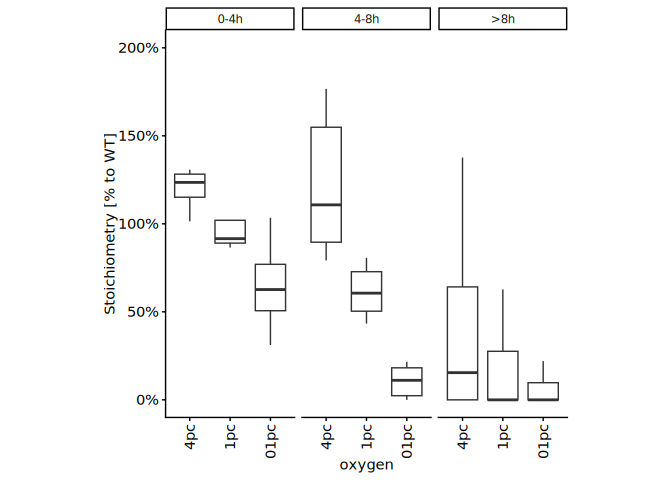
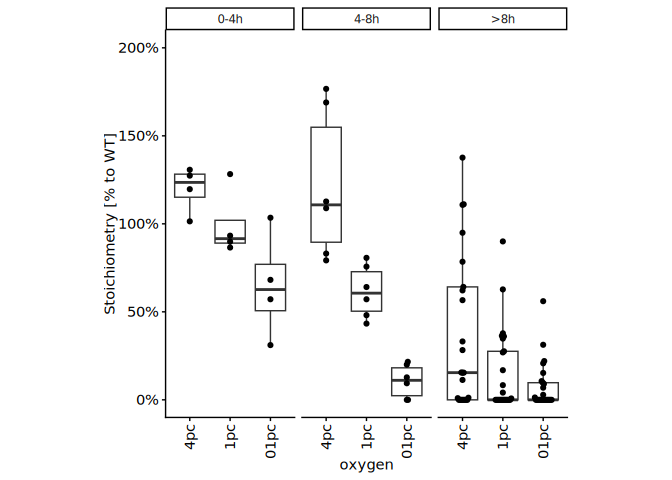
n for key comparisons added

diff --git a/R/p2_lysine-rich-domain-LCMS/p2-3-diagnostic-ions-lysine-hydorxylation-stoic.md b/R/p2_lysine-rich-domain-LCMS/p2-3-diagnostic-ions-lysine-hydorxylation-stoic.md
@@ -1,16 +1,19 @@
 2-3. Identify diagnostic ions that can mark lysine hydroxylations
 ================
 Yoichiro Sugimoto and Pallavi Kesavan
-07 January, 2026
+03 April, 2026
 
+- [Overview](#overview)
 - [Environment setup](#environment-setup)
 - [2.3.1 Import basic data](#231-import-basic-data)
 - [2.3.2 Identify useful diagnostic ions to identify lysine
   hydroxylations](#232-identify-useful-diagnostic-ions-to-identify-lysine-hydroxylations)
 - [Session information](#session-information)
 
-This script identify diagnostic ions to identify confident hydroxylation
-sites.
+# Overview
+
+This script identify diagnostic ions that can aid to determine
+hydroxylation sites.
 
 # Environment setup
 
@@ -377,6 +380,17 @@ ggplot(
 ![](p2-3-diagnostic-ions-lysine-hydorxylation-stoic_files/figure-gfm/plot_with_only_diagnostic_ions-1.png)<!-- -->
 
 ``` r
+m.brd4_hydroxylation_site_di[monoisotopic_mass %in% c(selected.ms)][, .N, by = list(monoisotopic_mass, genotype)]
+```
+
+    ##    monoisotopic_mass genotype     N
+    ##               <fctr>   <fctr> <int>
+    ## 1:          100.0762       WT   752
+    ## 2:          100.0762  JMJD6KO   586
+    ## 3:          156.1025       WT   752
+    ## 4:          156.1025  JMJD6KO   586
+
+``` r
 # Plot - Bar chart of proportion of PSMs with diagnostic ion 
 ggplot(
   data = m.brd4_hydroxylation_site_di[monoisotopic_mass %in% c(selected.ms)],
@@ -411,7 +425,7 @@ sessioninfo::session_info()
     ##  collate  C.UTF-8
     ##  ctype    C.UTF-8
     ##  tz       Europe/Berlin
-    ##  date     2026-01-07
+    ##  date     2026-04-03
     ##  pandoc   3.2 @ /usr/lib/rstudio-server/bin/quarto/bin/tools/x86_64/ (via rmarkdown)
     ##  quarto   1.5.57 @ /usr/lib/rstudio-server/bin/quarto/bin/quarto
     ## 
@@ -426,14 +440,14 @@ sessioninfo::session_info()
     ##  data.table        * 1.17.8     2025-07-10 [1] CRAN (R 4.4.3)
     ##  digest              0.6.37     2024-08-19 [1] CRAN (R 4.4.3)
     ##  dplyr             * 1.1.4      2023-11-17 [1] CRAN (R 4.4.3)
-    ##  evaluate            1.0.4      2025-06-18 [1] CRAN (R 4.4.3)
+    ##  evaluate            1.0.5      2025-08-27 [1] CRAN (R 4.4.3)
     ##  farver              2.1.2      2024-05-13 [1] CRAN (R 4.4.3)
     ##  fastmap             1.2.0      2024-05-15 [1] CRAN (R 4.4.3)
     ##  generics            0.1.4      2025-05-09 [1] CRAN (R 4.4.3)
     ##  GenomeInfoDb      * 1.42.3     2025-01-27 [1] Bioconduc~
     ##  GenomeInfoDbData    1.2.13     2025-07-21 [1] Bioconductor
     ##  ggbeeswarm        * 0.7.2      2023-04-29 [1] CRAN (R 4.4.3)
-    ##  ggplot2           * 3.5.2      2025-04-09 [1] CRAN (R 4.4.3)
+    ##  ggplot2           * 4.0.0      2025-09-11 [1] CRAN (R 4.4.3)
     ##  glue                1.8.0      2024-09-30 [1] CRAN (R 4.4.3)
     ##  gtable              0.3.6      2024-10-25 [1] CRAN (R 4.4.3)
     ##  htmltools           0.5.8.1    2024-04-04 [1] CRAN (R 4.4.3)
@@ -446,8 +460,8 @@ sessioninfo::session_info()
     ##  labeling            0.4.3      2023-08-29 [1] CRAN (R 4.4.3)
     ##  lifecycle           1.0.4      2023-11-07 [1] CRAN (R 4.4.3)
     ##  lubridate           1.9.4      2024-12-08 [1] CRAN (R 4.4.3)
-    ##  magrittr          * 2.0.3      2022-03-30 [1] CRAN (R 4.4.3)
-    ##  pillar              1.11.0     2025-07-04 [1] CRAN (R 4.4.3)
+    ##  magrittr          * 2.0.4      2025-09-12 [1] CRAN (R 4.4.3)
+    ##  pillar              1.11.1     2025-09-17 [1] CRAN (R 4.4.3)
     ##  pkgconfig           2.0.3      2019-09-22 [1] CRAN (R 4.4.3)
     ##  ptm.stoichiometry * 0.0.0.9000 2025-12-13 [1] local
     ##  R6                  2.6.1      2025-02-15 [1] CRAN (R 4.4.3)
@@ -457,11 +471,12 @@ sessioninfo::session_info()
     ##  rmarkdown           2.29       2024-11-04 [1] CRAN (R 4.4.3)
     ##  rstudioapi          0.17.1     2024-10-22 [1] CRAN (R 4.4.3)
     ##  S4Vectors         * 0.44.0     2024-10-29 [1] Bioconduc~
+    ##  S7                  0.2.0      2024-11-07 [1] CRAN (R 4.4.3)
     ##  scales              1.4.0      2025-04-24 [1] CRAN (R 4.4.3)
     ##  sessioninfo         1.2.3      2025-02-05 [1] CRAN (R 4.4.3)
     ##  snakecase           0.11.1     2023-08-27 [1] CRAN (R 4.4.3)
     ##  stringi             1.8.7      2025-03-27 [1] CRAN (R 4.4.3)
-    ##  stringr           * 1.5.1      2023-11-14 [1] CRAN (R 4.4.3)
+    ##  stringr           * 1.5.2      2025-09-08 [1] CRAN (R 4.4.3)
     ##  tibble              3.3.0      2025-06-08 [1] CRAN (R 4.4.3)
     ##  tidyselect          1.2.1      2024-03-11 [1] CRAN (R 4.4.3)
     ##  timechange          0.3.0      2024-01-18 [1] CRAN (R 4.4.3)
@@ -469,7 +484,7 @@ sessioninfo::session_info()
     ##  vctrs               0.6.5      2023-12-01 [1] CRAN (R 4.4.3)
     ##  vipor               0.4.7      2023-12-18 [1] CRAN (R 4.4.3)
     ##  withr               3.0.2      2024-10-28 [1] CRAN (R 4.4.3)
-    ##  xfun                0.52       2025-04-02 [1] CRAN (R 4.4.3)
+    ##  xfun                0.53       2025-08-19 [1] CRAN (R 4.4.3)
     ##  XVector           * 0.46.0     2024-10-29 [1] Bioconduc~
     ##  yaml                2.3.10     2024-07-26 [1] CRAN (R 4.4.3)
     ##  zlibbioc            1.52.0     2024-10-29 [1] Bioconduc~

diff --git a/R/p2_lysine-rich-domain-LCMS/p2-8_MS_SS_KR_plots_v3-2.md b/R/p2_lysine-rich-domain-LCMS/p2-8_MS_SS_KR_plots_v3-2.md
@@ -2,7 +2,7 @@
 data visualisation
 ================
 Yoichiro Sugimoto and Pallavi Kesavan
-02 April, 2026
+03 April, 2026
 
 - [Overview](#overview)
 - [Environment setup](#environment-setup)
@@ -1454,6 +1454,8 @@ pc2wt_on_kinetics <- merge(
   by = c("gene_name", "aa_pos")
 )
 
+library("ggbeeswarm")
+
 ggplot(
   pc2wt_on_kinetics[n == 7][oxygen != "21pc"],
   aes(
@@ -1483,6 +1485,7 @@ ggplot(
   )
 ) +
   geom_boxplot(outlier.shape = NA) +
+  geom_beeswarm() +
   facet_grid(~ t50_bin) +
   theme(
     aspect.ratio = 3,
@@ -1520,15 +1523,23 @@ ggplot(
 ![](p2-8_MS_SS_KR_plots_v3-2_files/figure-gfm/hypoxic_sensitivity-4.png)<!-- -->
 
 ``` r
-pc2wt_on_kinetics[n == 7][, .N, by = list(oxygen)]
+pc2wt_on_kinetics[n == 7][, .N, by = list(oxygen, t50_bin)]
 ```
 
-    ##    oxygen     N
-    ##    <fctr> <int>
-    ## 1:    1pc    35
-    ## 2:    4pc    35
-    ## 3:   01pc    35
-    ## 4:   21pc    35
+    ##     oxygen t50_bin     N
+    ##     <fctr>  <fctr> <int>
+    ##  1:    1pc     >8h    25
+    ##  2:    4pc     >8h    25
+    ##  3:   01pc     >8h    25
+    ##  4:   21pc     >8h    25
+    ##  5:    1pc    4-8h     6
+    ##  6:    4pc    4-8h     6
+    ##  7:   01pc    4-8h     6
+    ##  8:   21pc    4-8h     6
+    ##  9:    1pc    0-4h     4
+    ## 10:    4pc    0-4h     4
+    ## 11:   01pc    0-4h     4
+    ## 12:   21pc    0-4h     4
 
 # Session information
 
@@ -1546,12 +1557,13 @@ sessioninfo::session_info()
     ##  collate  C.UTF-8
     ##  ctype    C.UTF-8
     ##  tz       Europe/Berlin
-    ##  date     2026-04-02
+    ##  date     2026-04-03
     ##  pandoc   3.2 @ /usr/lib/rstudio-server/bin/quarto/bin/tools/x86_64/ (via rmarkdown)
     ##  quarto   1.5.57 @ /usr/lib/rstudio-server/bin/quarto/bin/quarto
     ## 
     ## ─ Packages ───────────────────────────────────────────────────────────────────
     ##  package           * version    date (UTC) lib source
+    ##  beeswarm            0.4.0      2021-06-01 [1] CRAN (R 4.4.3)
     ##  BiocGenerics      * 0.52.0     2024-10-29 [1] Bioconduc~
     ##  Biostrings        * 2.74.1     2024-12-16 [1] Bioconduc~
     ##  cellranger          1.1.0      2016-07-27 [1] CRAN (R 4.4.3)
@@ -1566,6 +1578,7 @@ sessioninfo::session_info()
     ##  generics            0.1.4      2025-05-09 [1] CRAN (R 4.4.3)
     ##  GenomeInfoDb      * 1.42.3     2025-01-27 [1] Bioconduc~
     ##  GenomeInfoDbData    1.2.13     2025-07-21 [1] Bioconductor
+    ##  ggbeeswarm        * 0.7.2      2023-04-29 [1] CRAN (R 4.4.3)
     ##  ggplot2           * 4.0.0      2025-09-11 [1] CRAN (R 4.4.3)
     ##  glue                1.8.0      2024-09-30 [1] CRAN (R 4.4.3)
     ##  gtable              0.3.6      2024-10-25 [1] CRAN (R 4.4.3)
@@ -1605,6 +1618,7 @@ sessioninfo::session_info()
     ##  timechange          0.3.0      2024-01-18 [1] CRAN (R 4.4.3)
     ##  UCSC.utils          1.2.0      2024-10-29 [1] Bioconduc~
     ##  vctrs               0.6.5      2023-12-01 [1] CRAN (R 4.4.3)
+    ##  vipor               0.4.7      2023-12-18 [1] CRAN (R 4.4.3)
     ##  withr               3.0.2      2024-10-28 [1] CRAN (R 4.4.3)
     ##  xfun                0.53       2025-08-19 [1] CRAN (R 4.4.3)
     ##  XVector           * 0.46.0     2024-10-29 [1] Bioconduc~
